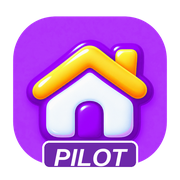
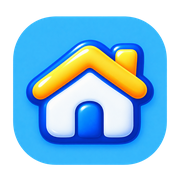
החלפת האייקון לאייקון הכחול, בלי המילה PILOT
Claude-Session: https://claude.ai/code/session_017uWVXGSk3ATMXcfb6JVEmn

diff --git a/sw.js b/sw.js
@@ -1,5 +1,5 @@
 // Service worker מינימלי: שומר את קבצי המעטפת לפתיחה מהירה. נתונים תמיד מהרשת.
-const CACHE = 'habayit-p150';
+const CACHE = 'habayit-p151';
 const SHELL = ['./js/companion.js','./js/spider.js','./','./index.html','./login.html','./signup.html','./js/family.js','./css/style.css','./js/splash.js','./splash.jpg','./splash-en.jpg','./splash-family.jpg','./splash.jpg','./js/config.js','./js/supabase.js','./js/common.js','./js/icons.js','./js/generate.js','./js/points.js','./tasks.html','./task.html','./admin.html','./report.html','./history.html','./chat.html','./ai.html','./lessons.html','./chef-splash.jpg','./teacher-splash.jpg','./calendar.html','./requests.html','./meds.html','./info.html','./feedback.html','./guide.html','./status.html','./bonus.html','./js/gamesplash.js','./js/bonuspopup.js','./bonus-splash.jpg','./bonus-splash-en.jpg','./fridge.html','./shop.html','./outing.html','./js/outings.js', './important.html', './js/important.js', './js/push.js','./js/bonus.js','./game.html','./games.html','./checkers.html','./battleship.html','./poker.html','./backgammon.html','./blackjack.html','./stratego.html','./tetris.html','./conflicts.html','./tetris-bg.jpg','./tetris-splash.jpg','./js/strategopage.js','./stratego-bg.jpg','./stratego-water.jpg','./stratego-splash.jpg','./js/bjpage.js','./js/bgpage.js','./js/pokerpage.js','./js/bspage.js','./js/checkerspage.js','./js/guest.js','./js/checkers-rules.js','./js/gamepage.js','./js/game.js','./game-bg.jpg','./js/events.js','./js/i18n.js','./manifest.webmanifest','./logo.png','./login-bg.jpg','./logo-text.png'];
 // כל קובץ נשמר בנפרד וללא כפילויות: קובץ חסר או כפול לא מפיל את ההתקנה של ה-Service Worker
 self.addEventListener('install', e => { e.waitUntil(caches.open(CACHE).then(c => Promise.allSettled([...new Set(SHELL)].map(u => c.add(u))))); self.skipWaiting(); });
